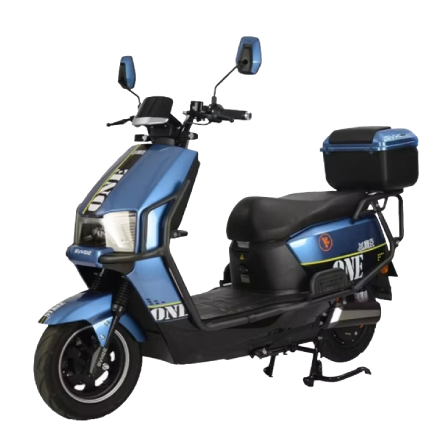
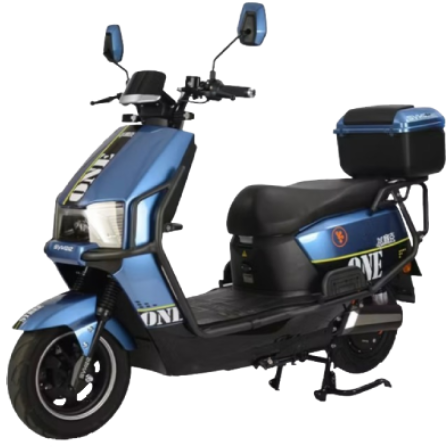
Actualiza la foto de la Cronos y la versiona con ?v=2
La foto nueva reemplaza a la anterior con el mismo nombre, y en
_headers las imagenes van con max-age=31536000, immutable: quien ya
abrio el catalogo no la volveria a pedir en un ano. El ?v=2 fuerza la
recarga, igual que styles.css?v=10 y app.js?v=8.

El webp se regenera desde el PNG nuevo para que no queden desfasados:
es lo que termina viendo casi todo el mundo via srcset.

diff --git a/index.html b/index.html
@@ -506,7 +506,7 @@ height="0" width="0" style="display:none;visibility:hidden"></iframe></noscript>
   </section>
 <section class="panel product" id="prod-cronos-72v" data-screen-label="CRONOS ELÉCTRICA 72V">
     <div class="pr-inner">
-      <div class="pr-media"><div class="pr-halo"></div><picture><source type="image/webp" srcset="assets/img/cronos.webp"><img width="760" height="760" loading="lazy" decoding="async" src="assets/img/cronos.png" alt="CRONOS ELÉCTRICA 72V"></picture></div>
+      <div class="pr-media"><div class="pr-halo"></div><picture><source type="image/webp" srcset="assets/img/cronos.webp?v=2"><img width="760" height="760" loading="lazy" decoding="async" src="assets/img/cronos.png?v=2" alt="CRONOS ELÉCTRICA 72V"></picture></div>
       <div class="pr-card">
         <div class="pr-eyebrow">Motos Eléctricas</div>
         <h3 class="pr-title"><span>CRONOS</span><span class="y">ELÉCTRICA</span><span>72V</span></h3>
